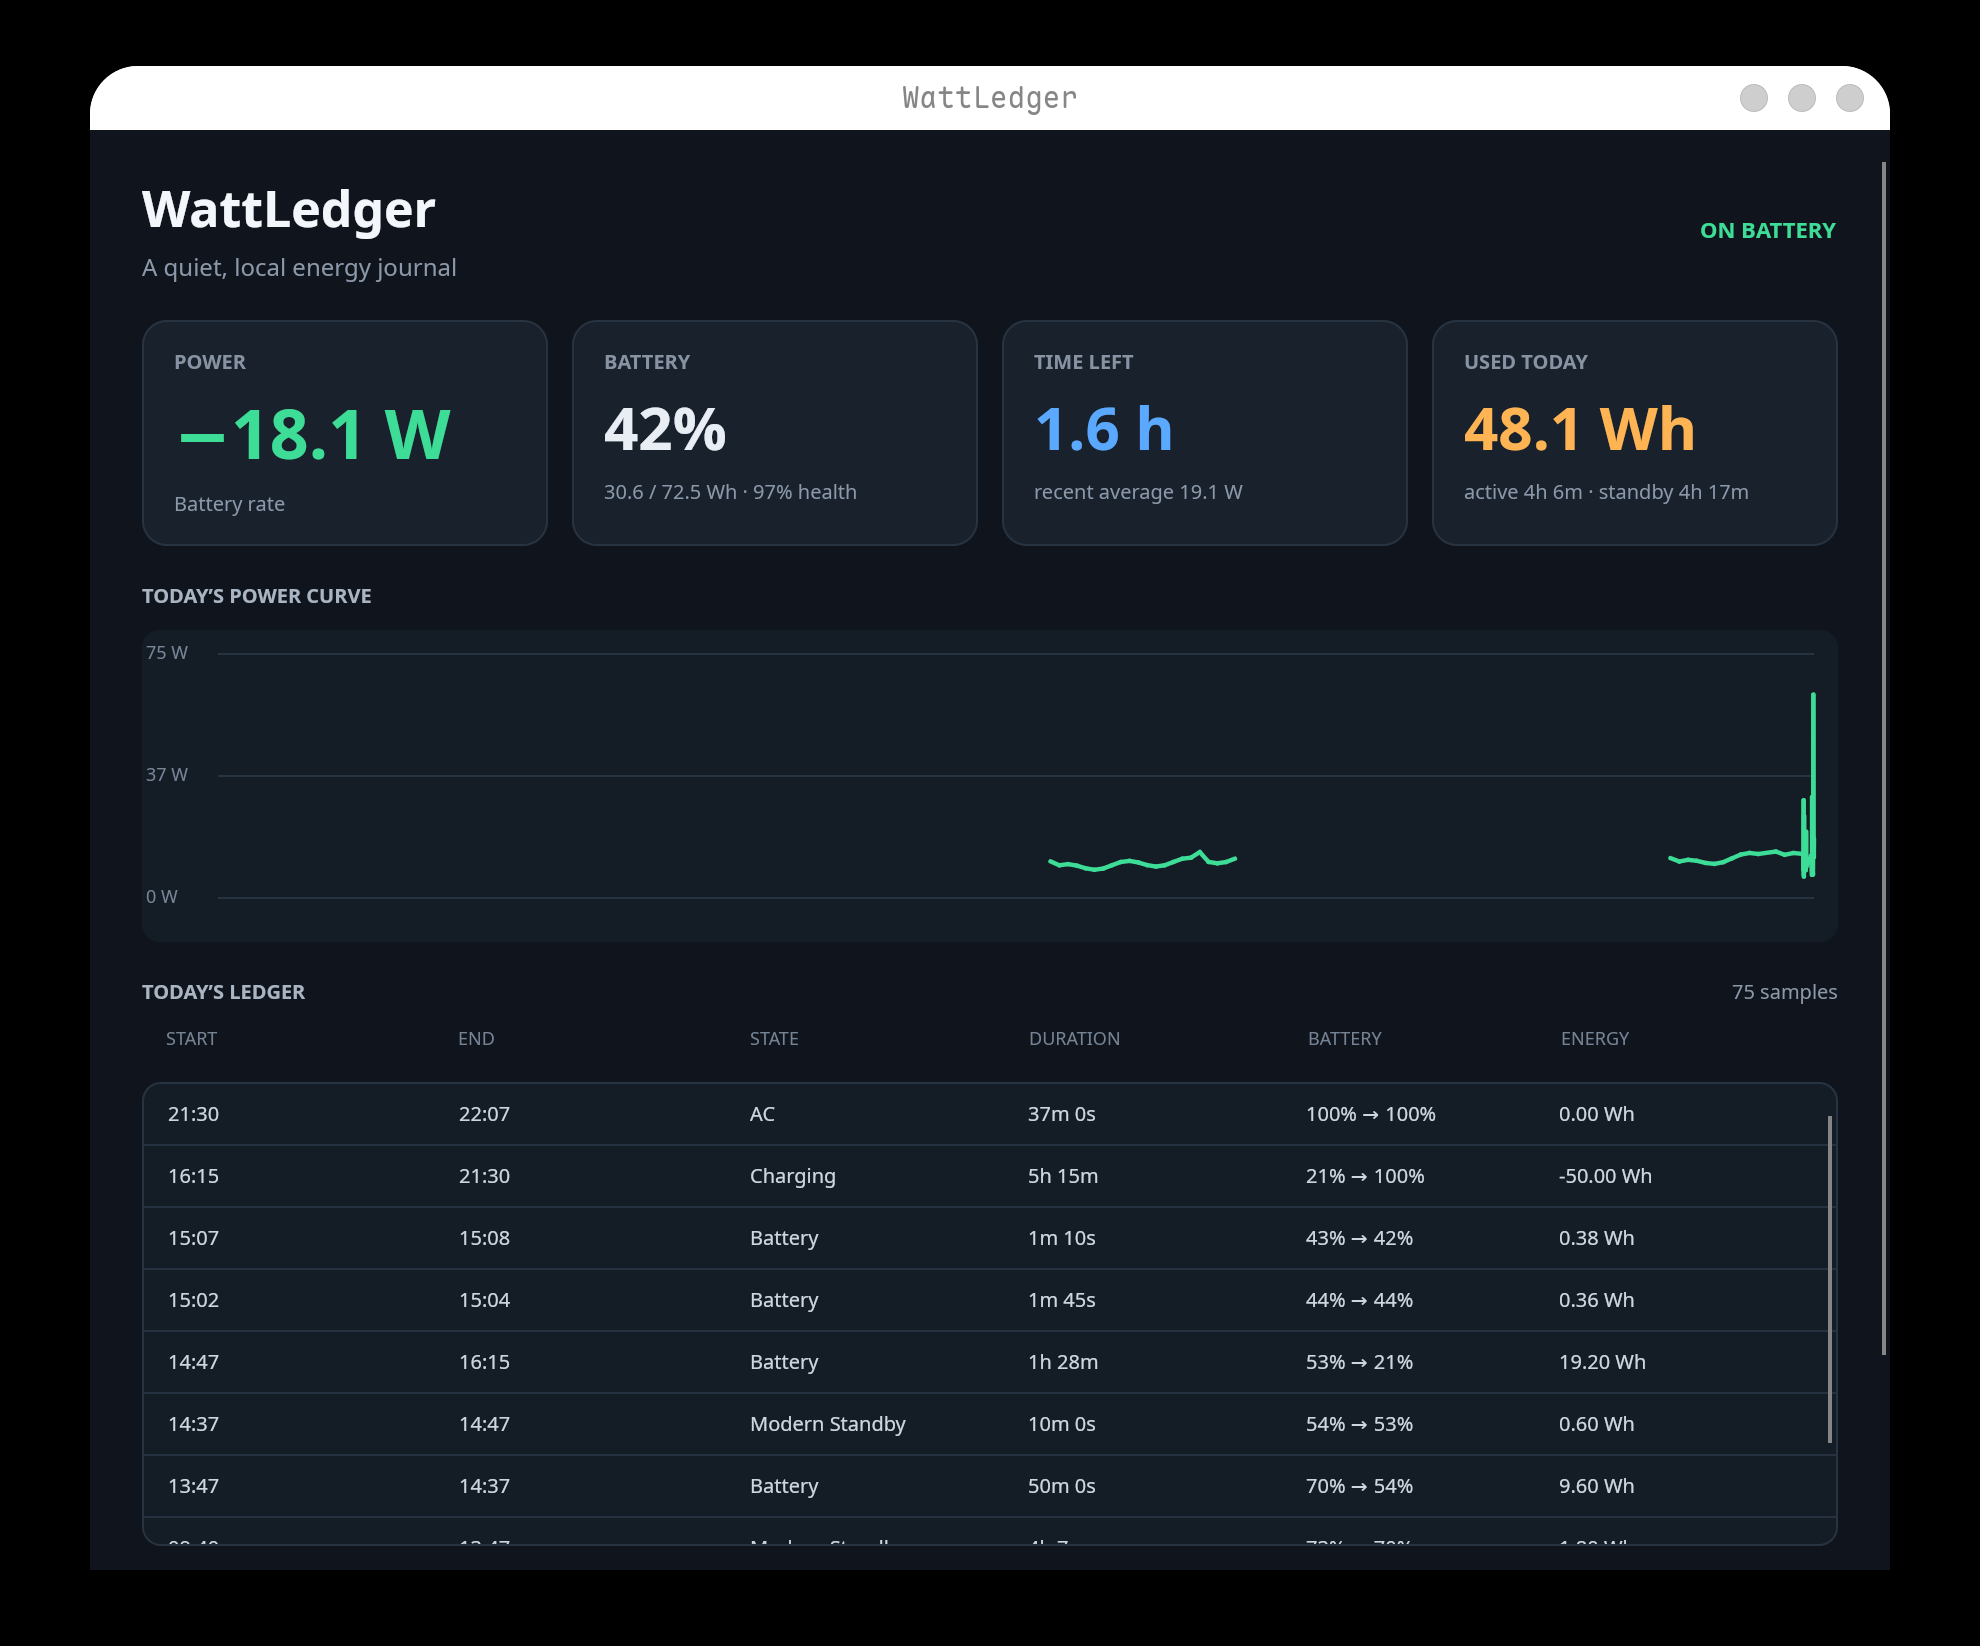
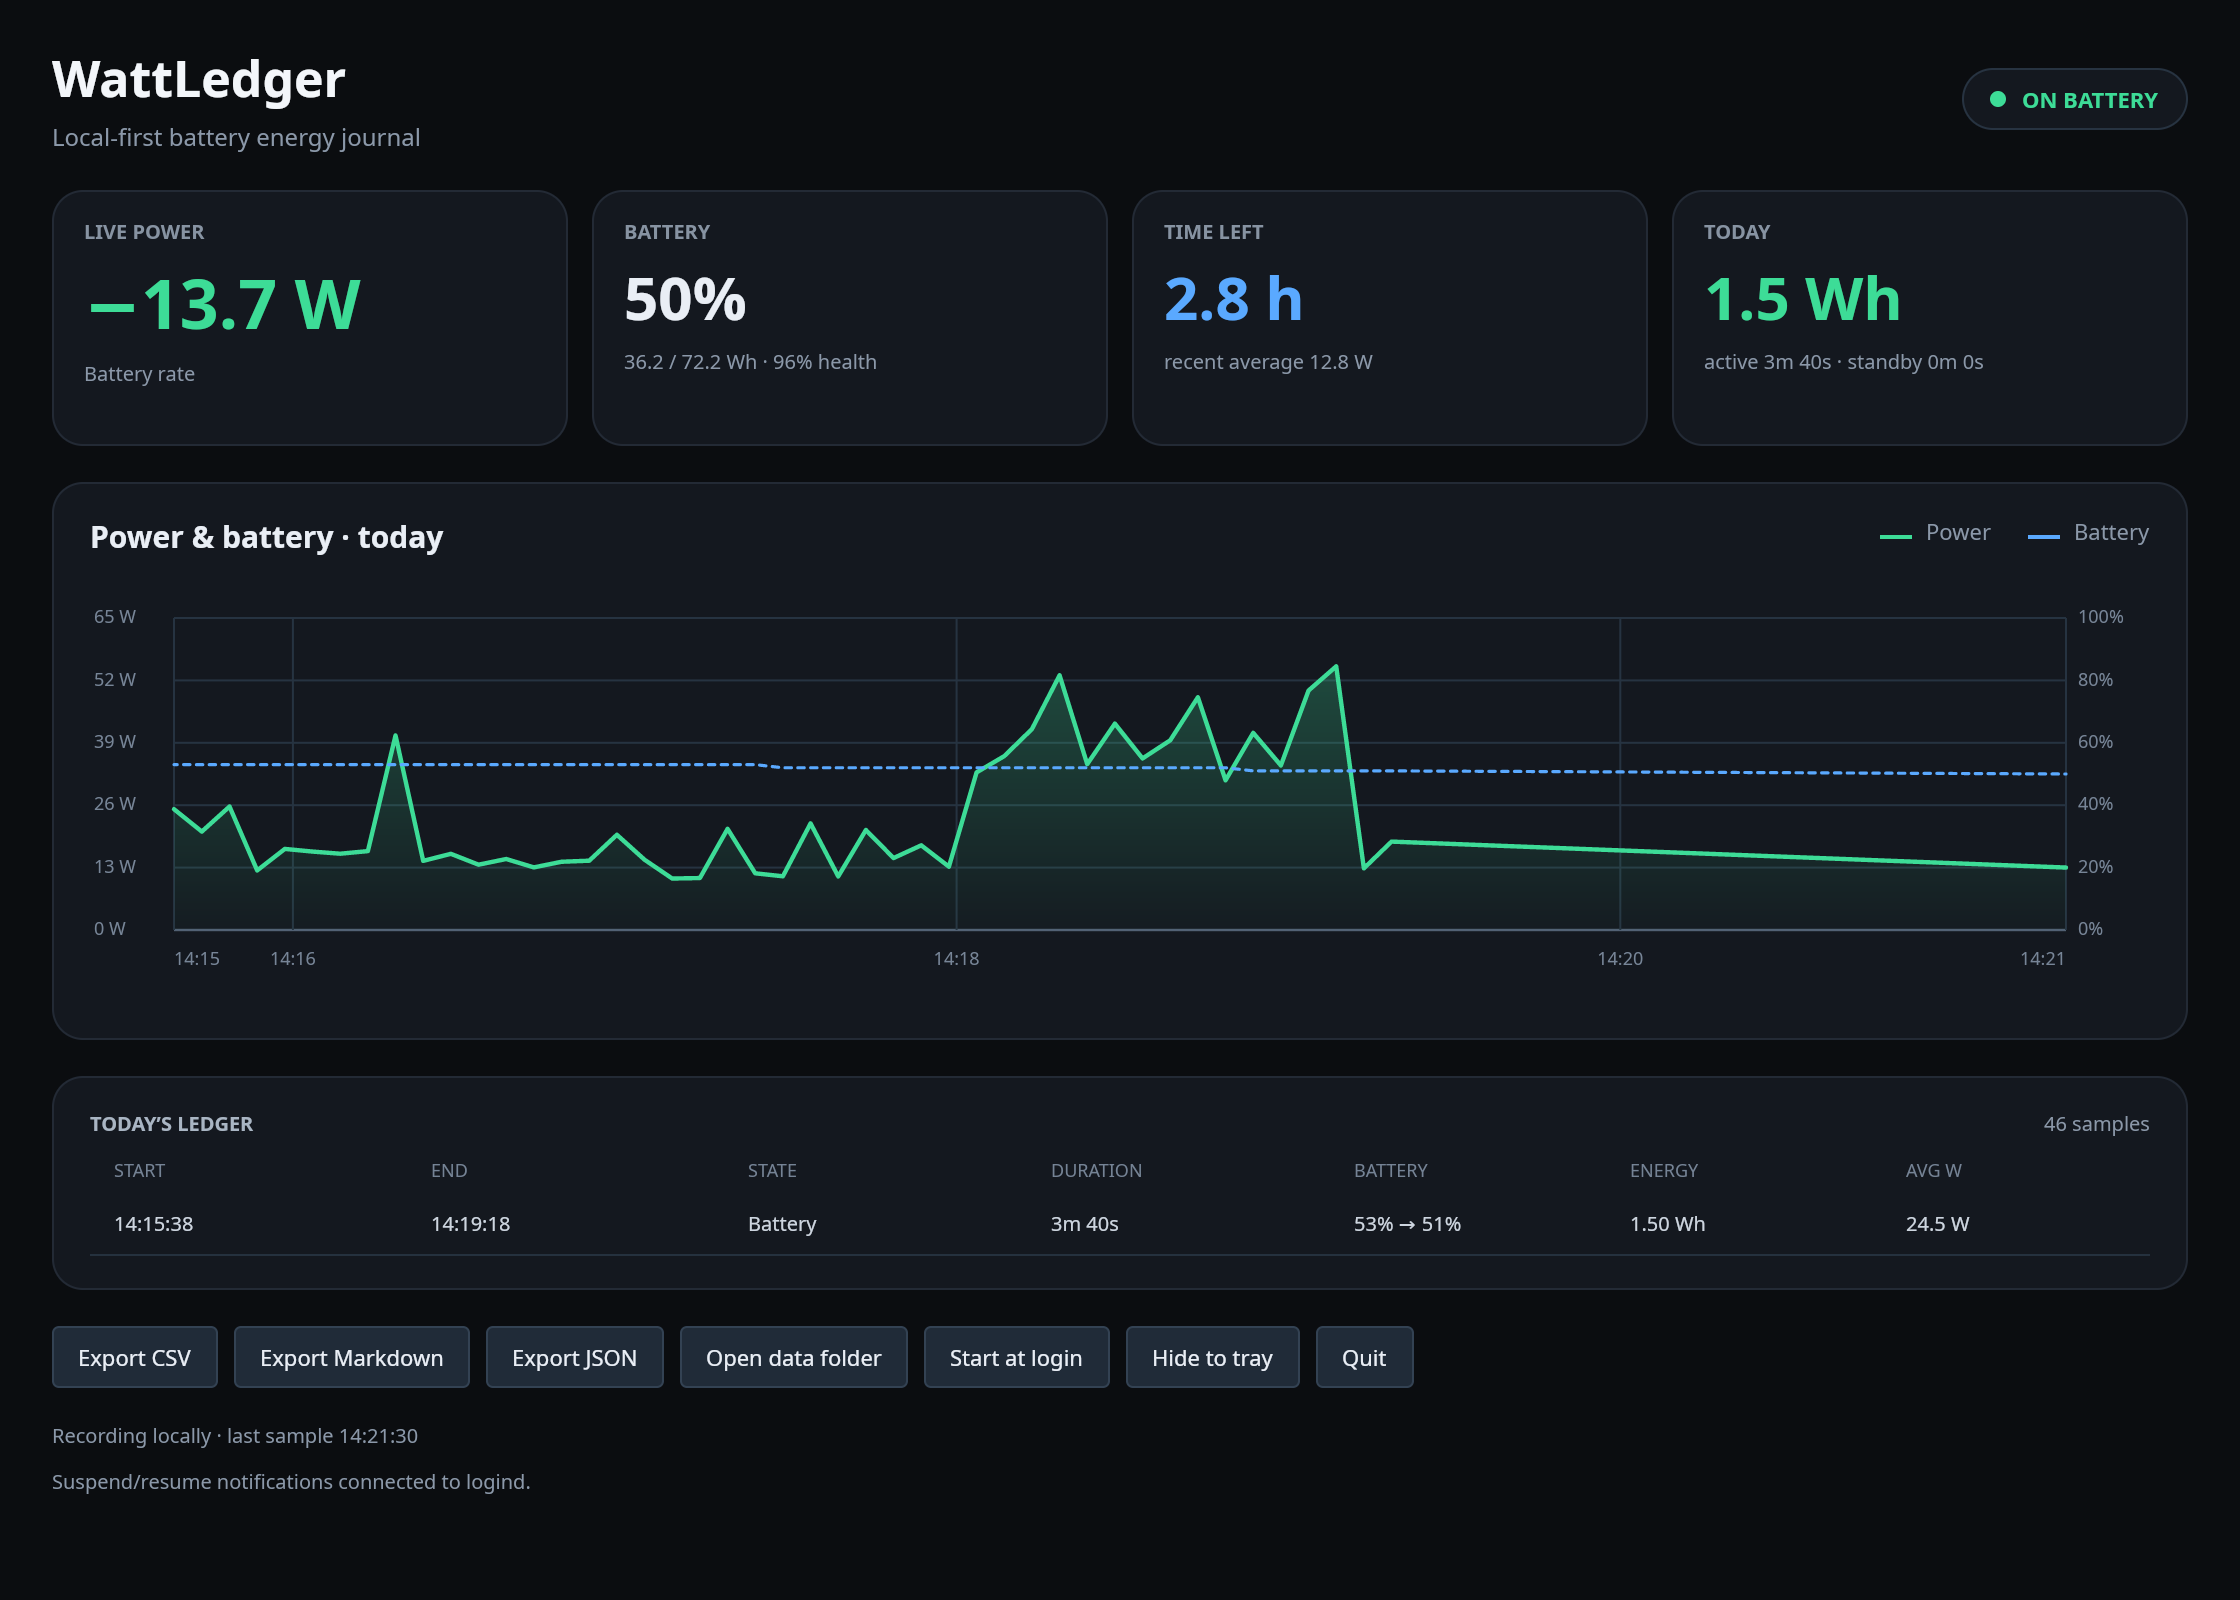
docs: record precise Linux validation scope and updated dashboard

diff --git a/docs/linux-port.md b/docs/linux-port.md
@@ -1,6 +1,6 @@
 # Linux port: design and migration plan
 
-This is the integration contract and status record for the initial Linux desktop port. It targets x64 GNOME on Ubuntu 24.04 and Debian 12/13. Local native startup, private-D-Bus no-host `--tray` visible-window fallback, tray-quit/socket cleanup, and second-instance activation checks passed; the local Core and Linux desktop test suites passed. CI builds and publishes on the listed baselines but does not run a GNOME session or validate laptop sensors. Real suspend, hardware, and distro-specific validation remain pending; no tested laptop model is claimed.
+This is the integration contract and status record for the initial Linux desktop port. It targets x64 GNOME on Ubuntu 24.04 and Debian 12/13. Automated tests, native desktop checks, and live sensor observations are separate from controlled hardware validation. No real suspend/resume cycle or controlled battery rundown has been validated. See the evidence record below for the machine, revision, and scope of each check.
 
 ## Design
 
@@ -10,6 +10,9 @@ This is the integration contract and status record for the initial Linux desktop
 - Keep Windows `ModernStandby` records and its threshold of more than 60 seconds unchanged. Linux uses `SleepGap` for any positive gap when logind suspend and resume events are both observed, including gaps of 60 seconds or less, and records that confirmation in the session note. Unconfirmed gaps require more than 60 seconds and are marked inferred. If the system bus is unavailable (including across a container/host boundary), use the inferred fallback. Neither logind nor the gap supplies battery measurements during the interval. When either endpoint lacks battery energy capacity, the existing schema stores numeric zero for the gap energy but marks the session note as `battery energy unavailable`; report summaries identify the standby-energy total as partial.
 - Default Linux data lives in `$XDG_DATA_HOME/wattledger` or `~/.local/share/wattledger`; `--db` overrides the database path. Basic battery access should not need root.
 - The GNOME desktop requires XWayland for an X11-backed Avalonia window in a Wayland session. Tray hosting is optional and depends on a GNOME AppIndicator extension. Without an available tray host, the app window must remain visible for continuous use. XDG autostart is user-scoped.
+- CLI `status` reads sensors without acquiring the sampler lease or creating/writing the ledger; the desktop or `watch` may keep recording at the same time. Recording commands retain the exclusive writer lease.
+- The Linux chart uses actual sample timestamps rather than midnight as its left edge, with a minimum range for single/short runs. Power and battery percentage have independent axes. Missing readings and long gaps break their respective curves. Hidden-to-tray windows retain sampling and lightweight tray status but defer report/chart/ledger work until shown; tray-host availability is signal-driven on a persistent session-bus connection.
+- Explicit desktop `--db` paths are normalized at launch so an XDG autostart entry keeps the same database when the login working directory differs.
 - Linux initially has no RAPL power breakdown, brightness reader, or foreground-process reader. Do not imply those Windows capabilities work on Linux.
 
 ## Build, release, and package
@@ -24,15 +27,26 @@ The script reads the package version from `Directory.Build.props`, installs the 
 
 ![WattLedger running as a native Linux desktop app](linux-screenshot.png)
 
-This capture is from the actual GNOME session and includes live battery readings. The displayed historical/demo chart data is synthetic; it is not a battery rundown or suspend/resume result. The original Windows screenshot at [`docs/screenshot.png`](screenshot.png) is unchanged.
+This capture is from the actual local GNOME session, using an isolated temporary ledger populated by live samples during UI verification. It is not a controlled battery-rundown or suspend/resume result. The original Windows screenshot at [`docs/screenshot.png`](screenshot.png) is unchanged.
 
 ## Migration milestones and verification
 
 | Milestone | Scope | Verification / status |
 |---|---|---|
-| 1. Shared engine | Core/CLI target `net10.0`; keep platform-specific readers separated | Local Core and Linux desktop test suites passed; remote CI matrix still pending |
-| 2. Linux desktop | Avalonia app, `--db`, optional `--tray`, logind pause/resume, XDG autostart | Native startup, private-D-Bus no-host `--tray` visible-window fallback, tray quit/socket cleanup, and second-instance activation passed locally. Remote CI result is pending; no real suspend/resume was performed |
-| 3. Release integration | Linux solution, Ubuntu/Debian CI, self-contained x64 artifacts, Debian package | Self-contained CLI/desktop published locally; `.deb` built (~66 MB), extracted, metadata inspected, and CLI `--help` passed. Remote CI and real Debian desktop/install validation remain pending |
-| 4. Hardware validation | Battery sysfs units and permissions, suspend/resume accounting, GNOME/XWayland and tray behavior | Screenshot shows live battery readings but is not a controlled hardware test. No laptop model or Debian desktop validation is claimed; real rundown and suspend testing remain pending |
+| 1. Shared engine | Core/CLI target `net10.0`; keep platform-specific readers separated | Original port's 29 Core tests passed locally and in the original CI run below. Follow-up regression results are recorded separately |
+| 2. Linux desktop | Avalonia app, `--db`, optional `--tray`, logind pause/resume, XDG autostart | Original port's 8 desktop tests and local native startup/tray/activation checks passed. CI includes a native Xvfb/no-host startup check, not a GNOME or suspend test |
+| 3. Release integration | Linux solution, Ubuntu/Debian CI, self-contained x64 artifacts, Debian package | Original CI passed all four jobs; the original package was extracted and installed for the current user on Ubuntu. Native Debian desktop/install checks remain unperformed |
+| 4. Hardware validation | Battery sysfs units and permissions, suspend/resume accounting, GNOME/XWayland and tray behavior | Live battery values were observed on the local Ubuntu machine. No independent meter comparison, controlled rundown, or real suspend/resume validation was performed |
+
+### Evidence record
+
+- **Original port, revision `e56d69e5d14f16039409976be0763d4945f80741`:** [CI run 39561681760](https://github.com/dazi9/WattLedger/actions/runs/39561681760) passed Windows, Ubuntu 24.04, Debian 12, and Debian 13 jobs. Windows ran the Core suite and built/published WPF and CLI. Linux jobs ran Core/desktop tests and published both executables; Xvfb plus an isolated D-Bus session checked native startup, sample persistence, no-host `--tray` fallback, and a second launch. Debian jobs ran in containers, not real Debian GNOME sessions.
+- **Local installation, 2026-10-22:** Ubuntu 24.04.5 LTS x64, GNOME/Wayland through XWayland, DMI product `XINGYAO Series`. The original CI `.deb` artifact was checksum-verified, extracted to a current-user installation (not installed with `dpkg`), and launched. CLI reported live sysfs battery values; an actual window and a StatusNotifier tray item were verified. This establishes basic operation on this one machine only, not measurement accuracy or full hardware certification.
+- **Review follow-up, source revision `a87276eaa2f893aff8d4ad76713b4886708056e3`, 2026-10-22:** on the same Ubuntu machine, .NET SDK 10.0.402 built the Linux solution and cross-built the original Windows WPF solution with zero warnings/errors. All 33 Core and 24 Linux desktop test cases passed; the optional native second-launch test was also run with `WATTLEDGER_NATIVE_GUI_TESTS=1`. Tests cover status reads while a sampler owns the writer lease, no status-only ledger creation, zero `power_now` fallback, report labels, relative desktop paths, real SQLite-backed hidden/show refresh, chart layout and Skia icon pixels. Self-contained CLI/desktop binaries were published locally. The stricter Xvfb smoke check verified an actually viewable no-host `--tray` window, active-desktop CLI `status`, and second-launch behavior. A separate isolated D-Bus test with a fake watcher verified initial `--tray` hiding and automatic window restoration after watcher owner loss; this did not stop the real GNOME tray host. The native preview's X11 class was `wattledger` and its `_NET_WM_ICON` contained a 64×64 icon. The screenshot was visually checked against the Windows reference. These are functional checks, not measured power-consumption comparisons.
+- **Follow-up remote CI:** results are revision-specific. [PR #2 checks](https://github.com/dazi9/WattLedger/pull/2/checks) identify the current revision and job outcomes; the original CI link above validates only `e56d69e`, not these fixes. The PR validation summary records the completed follow-up run separately.
+
+### Explicitly not tested
+
+Real logind suspend/resume delivery and energy accounting across a physical suspend, a controlled battery-rundown comparison, native Windows GUI interaction, native Debian GNOME GUI/package installation, and machines other than the one described above remain unvalidated. Fake sensor/logind fixtures exercise code paths but do not establish any of these hardware claims.
 
 CI can establish that the selected projects compile, tests pass, and Linux publish outputs are produced on the configured OS baselines. Local native UI checks are separate from CI and do not establish that a particular laptop exposes expected sysfs values, that sleep events match every firmware behavior, or that tray extensions are installed. Record those only after hands-on validation.

diff --git a/README.md b/README.md
@@ -83,7 +83,9 @@ dotnet publish src/WattLedger.Linux -c Release -r linux-x64 --self-contained tru
 tools/package-linux.sh artifacts/cli-linux-x64 artifacts/desktop-linux-x64 artifacts/wattledger.deb
 ```
 
-Linux battery values are read from kernel sysfs and converted from its micro-units to WattLedger's internal mWh, mW, and mV units. Missing sysfs values remain unavailable. When a battery reports no rate, WattLedger estimates energy from capacity changes; quantization and firmware update cadence can make short intervals appear as zero. Linux currently does not provide RAPL, brightness, or foreground-process readings. A `SleepGap` is timestamp-detected; when logind suspend and resume events are both observed, its note records that confirmation, otherwise it remains explicitly inferred. Missing capacity is marked as unavailable and report summaries flag standby energy as partial. The port has not yet been hardware validated. See [the Linux design and migration plan](docs/linux-port.md).
+`wattledger status` is a sensor-only read: it does not create the database, record a sample, or take the sampler's writer lease, and remains usable while the desktop or `watch` records. Desktop `--db` paths are made absolute at launch so enabling start-at-login keeps the same database. The Linux chart spans the actual recorded timestamps (with a minimum range for short runs), with green signed power and a blue dashed battery-percentage curve; negative chart power indicates charging. Report/chart refresh is deferred while hidden to the tray and catches up when shown.
+
+Linux battery values are read from kernel sysfs and converted from its micro-units to WattLedger's internal mWh, mW, and mV units. Missing sysfs values remain unavailable. A missing or zero `power_now` falls back to usable `current_now` and voltage. When a battery reports no usable rate, WattLedger estimates energy from capacity changes; quantization and firmware update cadence can make short intervals appear as zero. Linux currently does not provide RAPL, brightness, or foreground-process readings. A `SleepGap` is timestamp-detected; when logind suspend and resume events are both observed, its note records that confirmation, otherwise it remains explicitly inferred. Missing capacity is marked as unavailable and report summaries flag standby energy as partial. Basic live readings and UI startup were checked on one Ubuntu machine; real suspend/resume and controlled battery-rundown validation remain unperformed. See [the Linux design and validation record](docs/linux-port.md).
 
 The Windows app and CLI share the same database:
 
